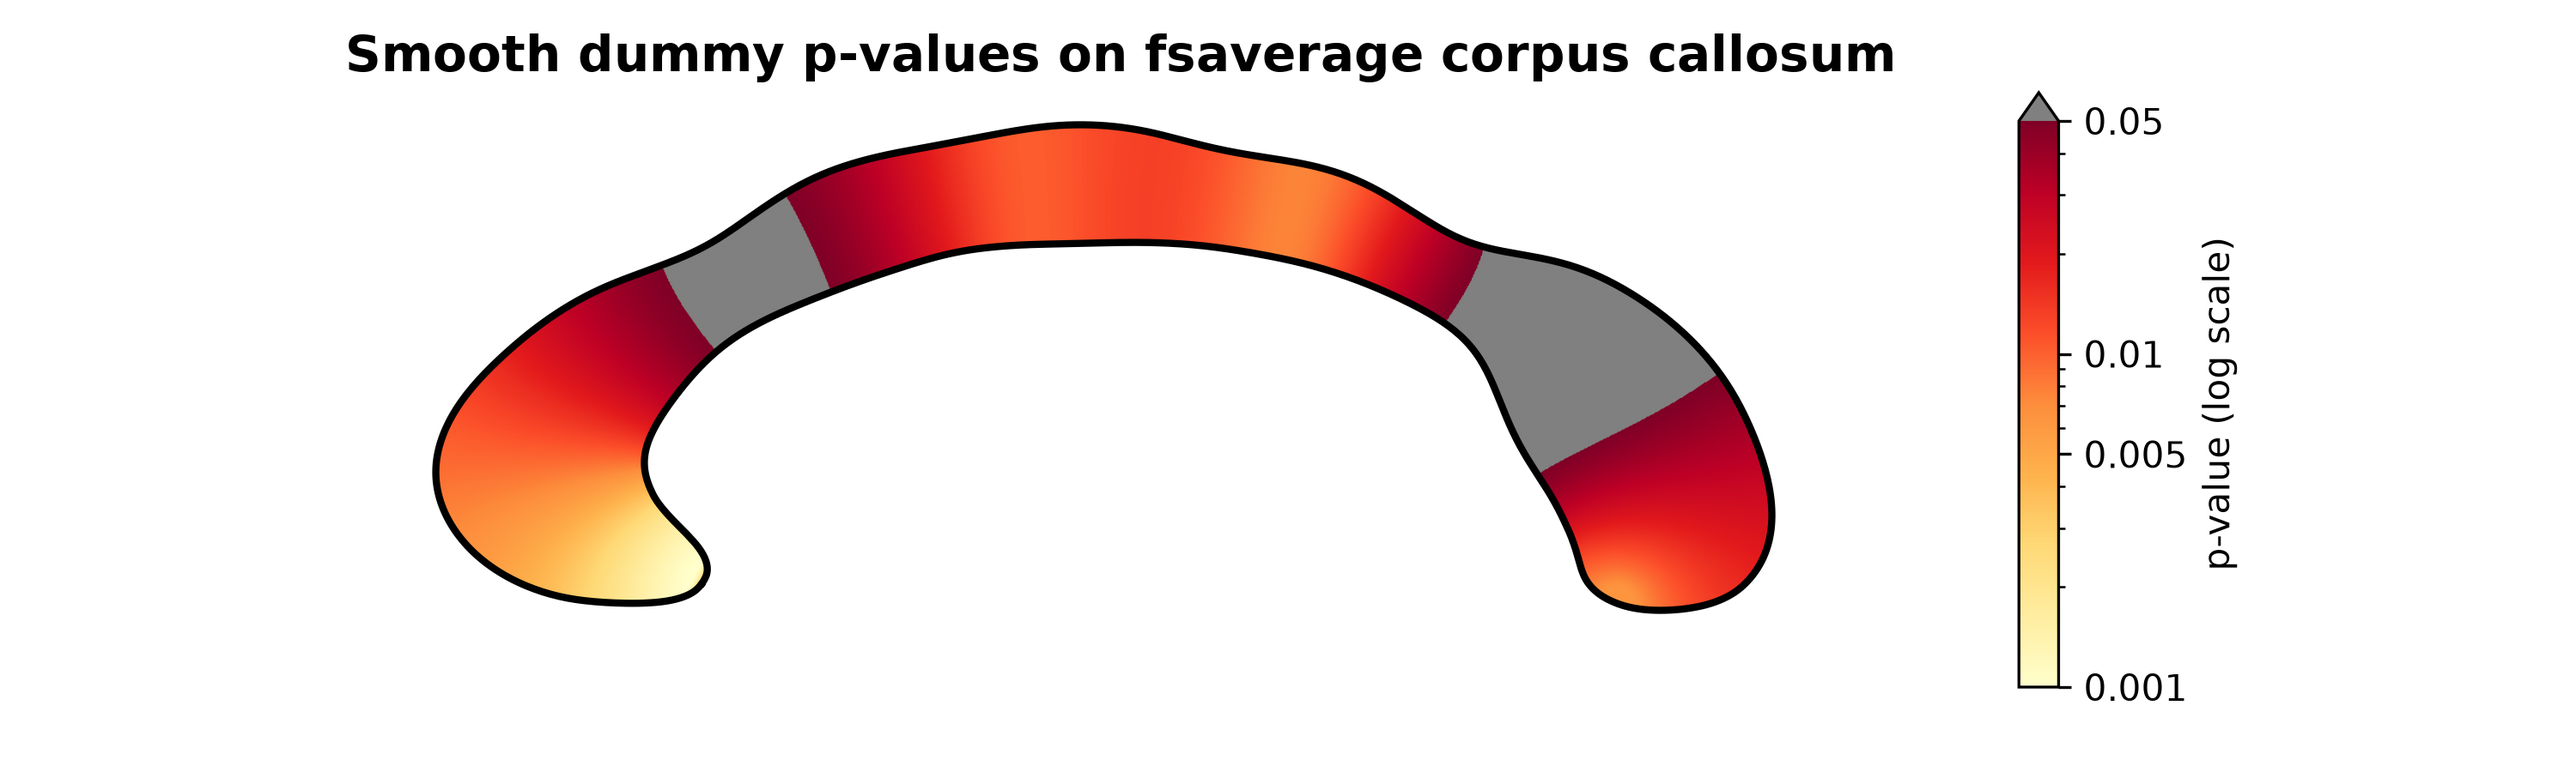
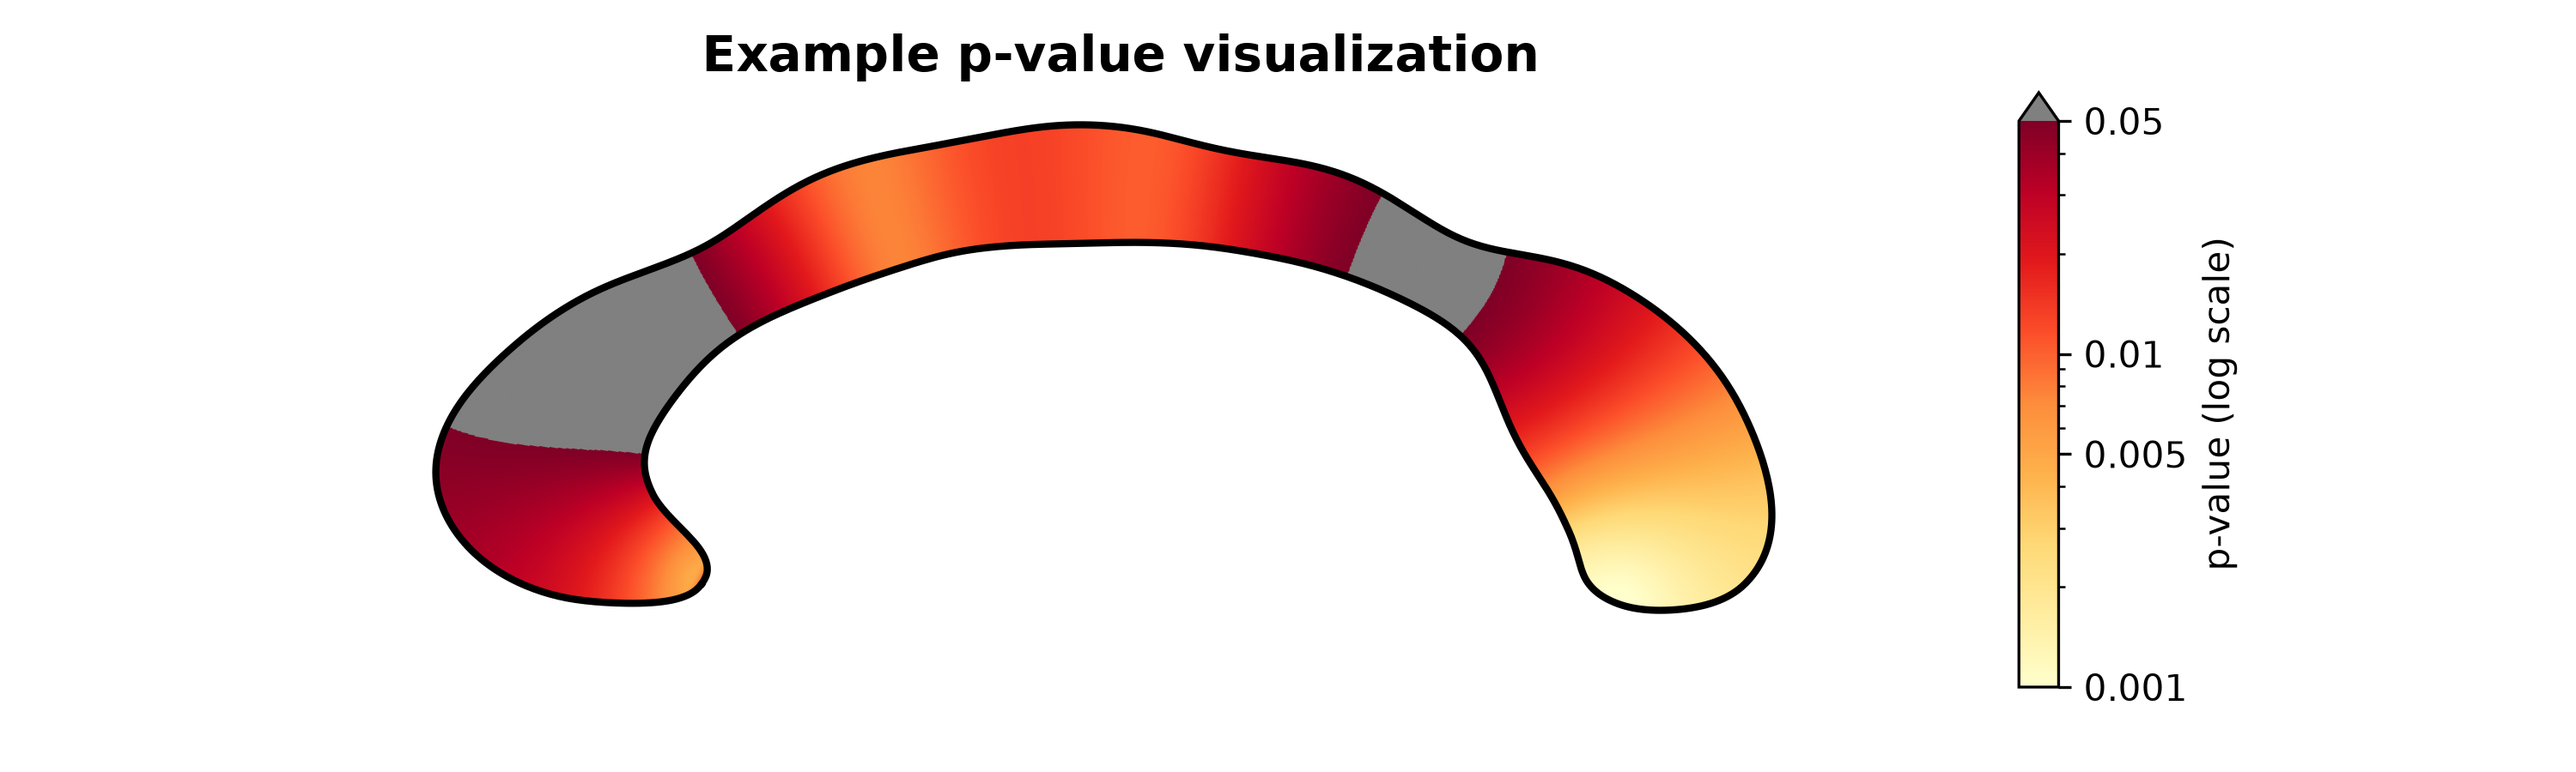
more intuitive ordering, error handling, doc, cleanup

Changed region(s): [[0.155, 0.1556, 0.713, 0.8089], [0.124, 0.0311, 0.744, 0.0933]]

diff --git a/CorpusCallosum/shape/contour.py b/CorpusCallosum/shape/contour.py
@@ -264,6 +264,44 @@ class CCContour:
                 )
             self.thickness_values = thickness_values
 
+    def get_thickness_profile(self) -> np.ndarray:
+        """Return one thickness value per level path, ordered anterior to posterior.
+
+        Saved template thickness values are attached to vertices of the closed
+        contour.  Every level path therefore contributes the same measurement
+        at both contour intersections.  Because the two contour sides are
+        traversed in opposite directions, measurement vertices contain an
+        anterior-to-posterior sequence followed by its reverse.
+
+        Returns
+        -------
+        np.ndarray
+            One-dimensional anterior-to-posterior thickness profile.
+
+        Raises
+        ------
+        ValueError
+            If measurement vertices are unavailable, their number is odd, or
+            the measurements on the two contour sides do not agree.
+        """
+        if self.thickness_values is None or self.original_thickness_vertices is None:
+            raise ValueError("Contour does not contain original thickness measurement vertices")
+
+        measurement_values = np.asarray(self.thickness_values)[self.original_thickness_vertices]
+        if len(measurement_values) % 2:
+            raise ValueError(
+                "A thickness profile requires two contour measurements per level path, "
+                f"but found {len(measurement_values)} measurement vertices"
+            )
+
+        first_side, second_side = np.split(measurement_values, 2)
+        if not np.allclose(first_side, second_side[::-1], equal_nan=False):
+            raise ValueError(
+                "Thickness measurements on opposite contour sides do not describe the same "
+                "anterior-to-posterior profile"
+            )
+        return first_side.copy()
+
     def fill_thickness_values(self) -> None:
         """Interpolate missing thickness values using weighted averaging.
 
@@ -448,6 +486,10 @@ class CCContour:
         matplotlib.figure.Figure
             The created figure object.
         """
+        plot_values = np.asarray(plot_values, dtype=float)
+        if plot_values.ndim != 1:
+            raise ValueError(f"plot_values must be one-dimensional, found shape {plot_values.shape}")
+
         if mode not in ("p-value", "icc", "thickness"):
             raise ValueError(f"Invalid mode '{mode}'")
         finite_values = plot_values[np.isfinite(plot_values)]
@@ -458,9 +500,13 @@ class CCContour:
         if log_scale and upper_threshold is not None and upper_threshold <= 0:
             raise ValueError("A log-scaled upper threshold must be positive")
 
-        plot_values = plot_values[::-1] # make sure values are plotted left to right (anterior to posterior)
-
-        levelpaths, *_ = self.create_levelpaths(num_points=len(plot_values)-1, inplace=False)
+        # cc_thickness returns level paths in canonical anterior-to-posterior
+        # order, matching thickness_profile in the JSON output and --values_file.
+        levelpaths, *_ = self.create_levelpaths(num_points=len(plot_values), inplace=False)
+        if len(levelpaths) != len(plot_values):
+            raise RuntimeError(
+                f"Requested {len(plot_values)} level paths, but thickness estimation returned {len(levelpaths)}"
+            )
 
         outside_contour = self.points.T
 
@@ -486,7 +532,7 @@ class CCContour:
         all_level_points_y = []
         all_level_values = []
 
-        for i, path in enumerate(levelpaths):
+        for path, plot_value in zip(levelpaths, plot_values, strict=True):
 
             # add third dimension to path
             path = np.column_stack([path, np.zeros(len(path))])
@@ -494,7 +540,7 @@ class CCContour:
             if len(path) == 1:
                 all_level_points_x.append(path[0][0])
                 all_level_points_y.append(path[0][1])
-                all_level_values.append(plot_values[i])
+                all_level_values.append(plot_value)
                 continue
 
             # make levelpath
@@ -507,13 +553,13 @@ class CCContour:
             extension_start = path[0] - first_segment
             all_level_points_x.append(extension_start[0])
             all_level_points_y.append(extension_start[1])
-            all_level_values.append(plot_values[i])
+            all_level_values.append(plot_value)
 
             # Add original path points
             for point in path:
                 all_level_points_x.append(point[0])
                 all_level_points_y.append(point[1])
-                all_level_values.append(plot_values[i])
+                all_level_values.append(plot_value)
 
             # Extend at the end: add point in direction of last segment
             last_segment = path[-1] - path[-2]
@@ -522,7 +568,7 @@ class CCContour:
             extension_end = path[-1] + last_segment
             all_level_points_x.append(extension_end[0])
             all_level_points_y.append(extension_end[1])
-            all_level_values.append(plot_values[i])
+            all_level_values.append(plot_value)
 
         # Convert to numpy arrays
         all_level_points_x = np.array(all_level_points_x)

diff --git a/CorpusCallosum/cc_visualization.py b/CorpusCallosum/cc_visualization.py
@@ -330,9 +330,7 @@ def main(
     logger.info(f"Writing output to {output_dir / 'cc_thickness_2d.png'}")
 
     if mode == "thickness":
-        raw_thickness_values = mid_contour.thickness_values[~np.isnan(mid_contour.thickness_values)]
-        # values are duplicated because they have two measurement points per levelpath
-        raw_thickness_values = raw_thickness_values[len(raw_thickness_values) // 2:]
+        raw_thickness_values = mid_contour.get_thickness_profile()
     mid_contour.plot_contour_colorfill(
         plot_values=raw_thickness_values,
         title=None,

diff --git a/doc/overview/modules/CC.md b/doc/overview/modules/CC.md
@@ -36,66 +36,11 @@ This file contains measurements from the middle sagittal slice and includes:
 #### **Shape Measurements (single values):**
 - `total_area`: Total corpus callosum area (mm²)
 - `total_perimeter`: Total perimeter length (mm)
-- `circularity`: Dimensionless shape circularity, defined below
-- `cc_index`: Dimensionless corpus callosum index (CCI), defined below
+- `circularity`: Dimensionless shape compactness, calculated as `4\pi A/P^2` (1 for a circle and lower for less circular shapes); see [Ardekani et al. (2014)](https://doi.org/10.1007/s00429-013-0503-0) and [Van Schependom et al. (2018)](https://doi.org/10.1016/j.nicl.2018.05.018)
+- `cc_index`: Dimensionless corpus callosum index (CCI), calculated as the sum of the anterior, middle, and posterior widths divided by the anterior--posterior length; see [Figueira et al. (2007)](https://doi.org/10.1590/S0004-282X2007000600001)
 - `midline_length`: Length along the corpus callosum midline (mm)
 - `curvature`: Average curve of the midline (degrees), measured by angle between its sub-segments
 - `curvature_body`: Average curve of the center 65% of the midline (degrees), measured by angle between its sub-segments
-
-##### Corpus callosum index (`cc_index`)
-
-FastSurfer-CC automates the corpus callosum index introduced as a practical
-linear marker of callosal atrophy by
-[Figueira et al. (2007)](https://doi.org/10.1590/S0004-282X2007000600001).
-After aligning the sagittal CC contour to the AC--PC coordinate system, it
-calculates
-
-```{math}
-\mathrm{CCI} = \frac{T_A + T_M + T_P}{L_{AP}},
-```
-
-where:
-
-- {math}`L_{AP}` is the distance between the outermost anterior and posterior
-  intersections of the longest anterior--posterior axis with the contour;
-- {math}`T_A` and {math}`T_P` are the anterior and posterior callosal widths measured
-  between the paired intersections on that axis; and
-- {math}`T_M` is the width between the contour intersections of the perpendicular
-  line through the midpoint of the anterior--posterior axis.
-
-The CCI is dimensionless and approximately scale-independent. A larger value
-means that the combined anterior, middle, and posterior widths are larger
-relative to the anterior--posterior length. It is an aggregate shape measure,
-not a direct estimate of callosal area or volume. FastSurfer's contour-based,
-automated construction follows the geometry of the original manual measure;
-values should therefore only be compared across data processed with consistent
-orientation, segmentation, and contour settings.
-
-The construction expects exactly four contour intersections with the
-anterior--posterior axis. If that geometry cannot be established, FastSurfer
-logs an error and reports `cc_index` as 0; this is a failure sentinel rather
-than a biologically meaningful zero.
-
-##### Circularity (`circularity`)
-
-FastSurfer-CC calculates circularity from the total sagittal area {math}`A` and
-contour perimeter {math}`P`:
-
-```{math}
-\mathrm{circularity} = \frac{4\pi A}{P^2}.
-```
-
-This dimensionless, scale-independent measure equals 1 for a perfect circle
-and approaches 0 as a shape becomes increasingly elongated or irregular.
-Because it combines area and perimeter, a lower value may reflect reduced area,
-increased boundary length, or both; it does not localize the underlying shape
-change. Perimeter is also sensitive to segmentation irregularity and contour
-smoothing, so those settings should remain consistent in group or longitudinal
-analyses.
-
-Callosal circularity has been investigated as a shape marker in Alzheimer's
-disease by [Ardekani et al. (2014)](https://doi.org/10.1007/s00429-013-0503-0)
-and [Van Schependom et al. (2018)](https://doi.org/10.1016/j.nicl.2018.05.018).
 
 #### **Subdivisions**
 - `areas`: Areas of CC using an improved Hofer-Frahm sub-division method (mm²). This gives more consistent sub-segments while preserving the original ratios.
@@ -103,7 +48,7 @@ and [Van Schependom et al. (2018)](https://doi.org/10.1016/j.nicl.2018.05.018).
 
 #### **Thickness Analysis:**
 - `thickness`: Average corpus callosum thickness (mm)
-- `thickness_profile`: Thickness profile (mm) of the corpus callosum slice (100 thickness values by default, listed from anterior to posterior CC ends)
+- `thickness_profile`: One thickness value per level path (mm; 100 values by default), listed from the anterior to the posterior CC end.
 
 #### **Volume Measurements:**
 - `cc_num_voxel`: Segmentation-based (masks) CC voxel count within a 5mm slab around the midsagittal plane (partial voxels at the edges are weighted to achieve exactly 5mm width). Multiply by `voxel_volume` to get the volume in mm³.

diff --git a/doc/scripts/cc_visualization.rst b/doc/scripts/cc_visualization.rst
@@ -33,6 +33,12 @@ To visualize a 2D template (using ``--slice_selection middle --save_template_dir
         --output_dir /data/visualizations/sub001 \
         --twoD
 
+The template's ``thickness_values_<slice>.txt`` is a per-contour-vertex file,
+not a one-value-per-level-path profile. Each thickness measurement occurs at
+both ends of its level path, so the non-empty measurements follow the contour
+as anterior-to-posterior and then posterior-to-anterior. Do not copy a JSON
+``thickness_profile`` directly into this template file.
+
 To visualize a one-column CSV of p-values on the bundled fsaverage contour,
 where the first row is a header and the remaining rows contain positive values
 ordered from anterior to posterior:
@@ -48,6 +54,19 @@ ordered from anterior to posterior:
         --upper_threshold 0.05 \
         --threshold_color gray \
         --twoD
+
+The ``--values_file`` format is also the supported way to visualize a
+``thickness_profile`` copied from the FastSurfer JSON output: write its values
+once, in their existing anterior-to-posterior order, beneath a single header
+such as ``thickness`` and select ``--mode thickness``.
+
+For the default midslice metrics file, ``jq`` can create this input without
+changing the order:
+
+.. code-block:: bash
+
+    jq -r '"thickness", .thickness_profile[]' \
+        stats/callosum.CC.midslice.json > thickness_profile.csv
 
 The same command can be run from a FastSurfer container without installing
 FastSurfer or FreeSurfer on the host. From the directory containing
@@ -72,13 +91,12 @@ FastSurfer or FreeSurfer on the host. From the directory containing
         --upper_threshold 0.05 \
         --threshold_color gray \
         --legend "p-value (log scale)" \
-        --title "Smooth dummy p-values on fsaverage corpus callosum" \
+        --title "Example p-value visualization" \
         --output_name p_values_fsaverage_2d.png \
         --smoothing_window 0 \
         --twoD
 
-This CPU-only visualization does not require ``--gpus all``. The output is
-written to ``visualizations/p_values_fsaverage_2d.png``. On macOS, the
+The output is written to ``visualizations/p_values_fsaverage_2d.png``. On macOS, the
 ``--user`` option can be omitted if Docker Desktop reports a user-mapping
 problem.
 
